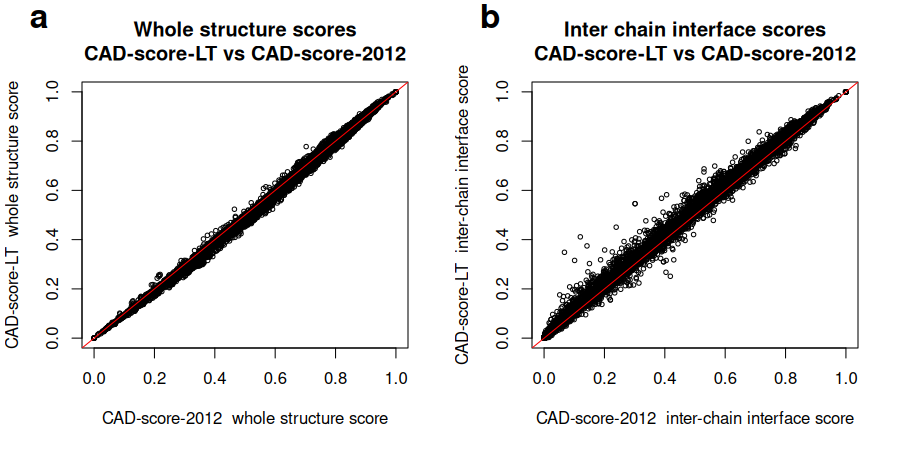
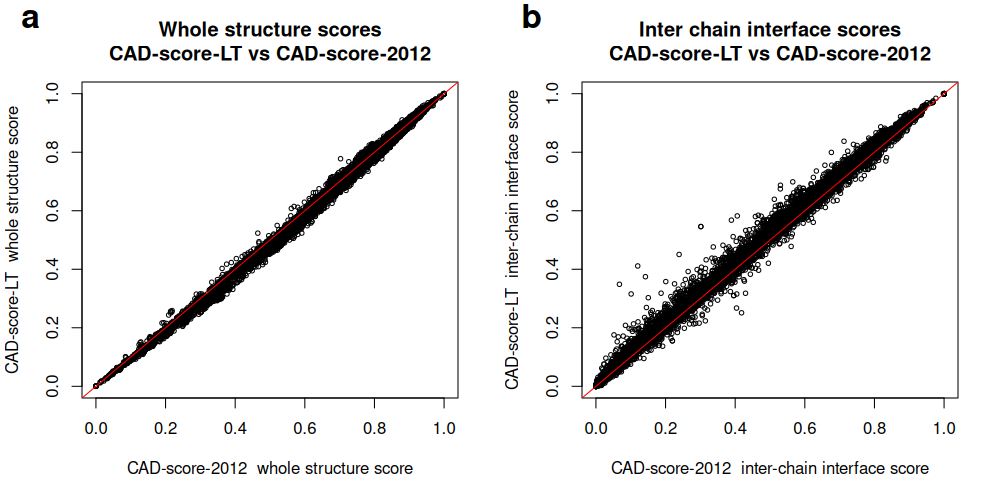
Updated docs of lt-cadscore.

diff --git a/expansion_lt_cadscore/index.html b/expansion_lt_cadscore/index.html
@@ -101,10 +101,11 @@
 </header>
 <nav id="TOC" role="doc-toc">
 <ul>
-<li><a href="#introduction-to-cad-score-lt" id="toc-introduction-to-cad-score-lt">Introduction to CAD-score-LT</a>
+<li><a href="#about-cad-score-lt" id="toc-about-cad-score-lt">About CAD-score-LT</a>
 <ul>
 <li><a href="#cad-score-definition-for-residue-residue-contacts" id="toc-cad-score-definition-for-residue-residue-contacts">CAD-score definition for residue-residue contacts</a></li>
 <li><a href="#cad-score-definition-for-other-types-of-areas" id="toc-cad-score-definition-for-other-types-of-areas">CAD-score definition for other types of areas</a></li>
+<li><a href="#benchmarking-data-and-results" id="toc-benchmarking-data-and-results">Benchmarking data and results</a></li>
 </ul></li>
 <li><a href="#quickest-install-guide" id="toc-quickest-install-guide">Quickest install guide</a></li>
 <li><a href="#building-the-command-line-tool-from-source-code" id="toc-building-the-command-line-tool-from-source-code">Building the command-line tool from source code</a>
@@ -136,7 +137,7 @@
 </ul></li>
 </ul>
 </nav>
-<h1 id="introduction-to-cad-score-lt">Introduction to CAD-score-LT</h1>
+<h1 id="about-cad-score-lt">About CAD-score-LT</h1>
 <p>CAD-score-LT software computes CAD-score (Contact Area Difference score): a superposition-free similarity measure based on contact areas. CAD-score-LT is based on the <a href="../expansion_lt/index.html">Voronota-LT software</a>. CAD-score-LT is much faster and more versatile than the previous CAD-score implementations. It is designed to work for both global comparisons and for localized analyses such as interfaces and binding sites.</p>
 <p>CAD-score-LT is open source (MIT license) and hosted <a href="https://github.com/kliment-olechnovic/voronota/tree/master/expansion_lt_cadscore">on GitHub as a project in the Voronota monorepo</a>.</p>
 <h2 id="cad-score-definition-for-residue-residue-contacts">CAD-score definition for residue-residue contacts</h2>
@@ -162,6 +163,8 @@
 <li><em>“chain”</em> - chain-chain contact areas, residue-level site areas, residue-level SAS areas</li>
 </ul>
 <p>All the areas are intitially computed on the atom level. Then, if needed, the atom-level areas are aggregated on residue or/and chain levels.</p>
+<h2 id="benchmarking-data-and-results">Benchmarking data and results</h2>
+<p>Benchmarking data and results are available <a href="./benchmark/index.html">here</a>.</p>
 <h1 id="quickest-install-guide">Quickest install guide</h1>
 <p>Since CAD-score-LT version 0.8.106, universal binary execuitables of CAD-score-LT built with the <a href="https://github.com/jart/cosmopolitan">Cosmopolitan Libc toolkit</a> are provided.</p>
 <p>To download and prepare the latest released cosmopolitan executable, run the following commands in a shell environment (e.g. a Bash shell):</p>

diff --git a/expansion_lt_cadscore/benchmark/index.html b/expansion_lt_cadscore/benchmark/index.html
@@ -37,8 +37,8 @@
 <h3 id="setup">Setup</h3>
 <p>We compared CAD-score-LT with two previous implementations of CAD-score.</p>
 <ul>
-<li><strong>CAD-score-2012</strong>: the implementation that computes residue-residue contact areas by summing atom-level contact areas derived from Voronoi tessellation of atomic balls, with atom contact areas estimated by sphere subdivision over tessellation neighbors. The software is hosted at <a href="https://github.com/kliment-olechnovic/old_cadscore">https://github.com/kliment-olechnovic/old_cadscore</a>.</li>
-<li><strong>CAD-score-2021</strong>: the implementation in <a href="https://www.voronota.com/expansion_js/index.html">Voronota-JS</a> that computes residue-residue contact areas by summing atom-level areas corresponding directly to Voronoi cell faces constrained inside the solvent-accessible surface. This contact construction mode is used in the PPI3D server and in the FTDMP framework.</li>
+<li><em>CAD-score-2012</em>: the implementation that computes residue-residue contact areas by summing atom-level contact areas derived from Voronoi tessellation of atomic balls, with atom contact areas estimated by sphere subdivision over tessellation neighbors. The software is hosted at <a href="https://github.com/kliment-olechnovic/old_cadscore">https://github.com/kliment-olechnovic/old_cadscore</a>.</li>
+<li><em>CAD-score-2021</em>: the implementation in <a href="https://www.voronota.com/expansion_js/index.html">Voronota-JS</a> that computes residue-residue contact areas by summing atom-level areas corresponding directly to Voronoi cell faces constrained inside the solvent-accessible surface. This contact construction mode is used in the PPI3D server and in the FTDMP framework.</li>
 </ul>
 <p>Benchmarking used data from CASP16. We downloaded all collections of oligomeric protein and RNA models from <a href="https://predictioncenter.org/download_area/CASP16/predictions/oligo/">https://predictioncenter.org/download_area/CASP16/predictions/oligo/</a>. From each collection, 100 random structure pairs were selected. Within each pair, one structure was designated as the target and the other as the model. Because the older implementations are slow for very large inputs, pairs with more than 100,000 atoms in total were excluded. The final benchmark set contained 12,309 pairs. For each pair we evaluated two regimes: whole-structure residue-residue contacts and inter-chain residue-residue contacts.</p>
 <h3 id="results">Results</h3>

diff --git a/expansion_lt_cadscore/benchmark/README.md b/expansion_lt_cadscore/benchmark/README.md
@@ -4,8 +4,8 @@
 
 We compared CAD-score-LT with two previous implementations of CAD-score.
 
-* __CAD-score-2012__: the implementation that computes residue-residue contact areas by summing atom-level contact areas derived from Voronoi tessellation of atomic balls, with atom contact areas estimated by sphere subdivision over tessellation neighbors. The software is hosted at [https://github.com/kliment-olechnovic/old_cadscore](https://github.com/kliment-olechnovic/old_cadscore).
-* __CAD-score-2021__: the implementation in [Voronota-JS](https://www.voronota.com/expansion_js/index.html) that computes residue-residue contact areas by summing atom-level areas corresponding directly to Voronoi cell faces constrained inside the solvent-accessible surface. This contact construction mode is used in the PPI3D server and in the FTDMP framework.
+* _CAD-score-2012_: the implementation that computes residue-residue contact areas by summing atom-level contact areas derived from Voronoi tessellation of atomic balls, with atom contact areas estimated by sphere subdivision over tessellation neighbors. The software is hosted at [https://github.com/kliment-olechnovic/old_cadscore](https://github.com/kliment-olechnovic/old_cadscore).
+* _CAD-score-2021_: the implementation in [Voronota-JS](https://www.voronota.com/expansion_js/index.html) that computes residue-residue contact areas by summing atom-level areas corresponding directly to Voronoi cell faces constrained inside the solvent-accessible surface. This contact construction mode is used in the PPI3D server and in the FTDMP framework.
 
 Benchmarking used data from CASP16.
 We downloaded all collections of oligomeric protein and RNA models from [https://predictioncenter.org/download_area/CASP16/predictions/oligo/](https://predictioncenter.org/download_area/CASP16/predictions/oligo/).

diff --git a/expansion_lt_cadscore/README.md b/expansion_lt_cadscore/README.md
@@ -1,4 +1,4 @@
-# Introduction to CAD-score-LT
+# About CAD-score-LT
 
 CAD-score-LT software computes CAD-score (Contact Area Difference score): a superposition-free similarity measure based on contact areas.
 CAD-score-LT is based on the [Voronota-LT software](../expansion_lt/README.md).
@@ -59,6 +59,10 @@ Areas of every type can be assessed on three levels of detail:
 * _"chain"_ - chain-chain contact areas, residue-level site areas, residue-level SAS areas
 
 All the areas are intitially computed on the atom level. Then, if needed, the atom-level areas are aggregated on residue or/and chain levels.
+
+## Benchmarking data and results
+
+Benchmarking data and results are available [here](./benchmark/README.md).
 
 # Quickest install guide
 
